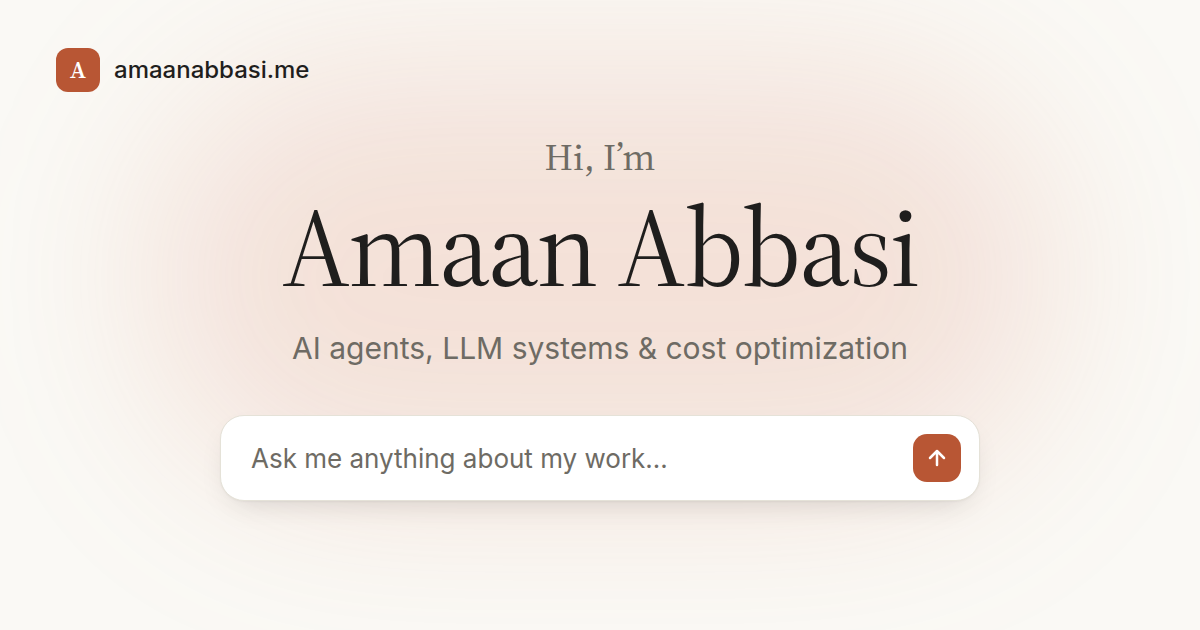
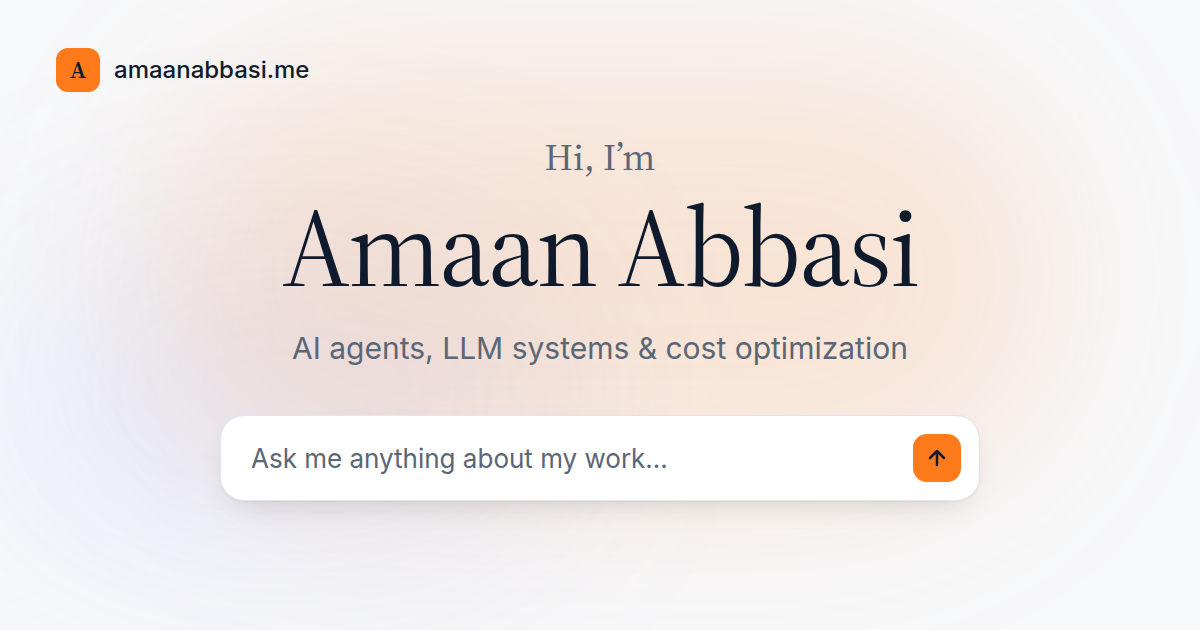
style: 💄 switch to a tangerine and navy palette
Move away from the warm ivory and clay-orange look: cool off-white
backgrounds, navy ink, a brighter tangerine accent with navy text on it,
a deep navy dark mode, and a faint cool counter-glow in the hero. Icons,
browser theme color and the social preview image follow the new palette.

Claude-Session: https://claude.ai/code/session_01HtKFD6V1UwgWJRrzum5mvK

Changed region(s): [[0.74, 0.6635, 0.8017, 0.7841], [0.0308, 0.0603, 0.0925, 0.1508]]

diff --git a/app/globals.css b/app/globals.css
@@ -2,31 +2,35 @@
 @tailwind components;
 @tailwind utilities;
 
-/* Palette: warm ivory + terracotta. Values are RGB channels so Tailwind can apply alpha. */
+/* Palette: tangerine + navy on cool neutrals. Values are RGB channels so Tailwind can apply alpha. */
 @layer base {
   :root {
-    --bg: 250 249 245;
+    --bg: 247 248 250;
     --surface: 255 255 255;
-    --surface-2: 240 238 230;
-    --line: 229 226 216;
-    --ink: 31 30 29;
-    --muted: 110 107 100;
-    --accent: 184 86 52; /* button fill, 4.7:1 with white text */
-    --accent-text: 184 86 52; /* links on bg */
-    --accent-bright: 217 119 87; /* decoration only */
+    --surface-2: 238 241 245;
+    --line: 225 229 236;
+    --ink: 15 27 45; /* navy ink */
+    --muted: 91 102 118;
+    --accent: 255 122 26; /* tangerine fill */
+    --accent-ink: 15 27 45; /* text/icons on the accent fill, 6.6:1 */
+    --accent-text: 194 65 12; /* orange text on bg, 4.9:1 */
+    --accent-bright: 255 122 26; /* decoration only */
+    --glow-cool: 99 125 255;
     color-scheme: light;
   }
 
   .dark {
-    --bg: 38 38 36;
-    --surface: 48 48 46;
-    --surface-2: 58 58 55;
-    --line: 70 69 64;
-    --ink: 240 238 230;
-    --muted: 166 163 154;
-    --accent: 184 86 52;
-    --accent-text: 217 119 87;
-    --accent-bright: 217 119 87;
+    --bg: 11 17 32;
+    --surface: 19 26 41;
+    --surface-2: 28 36 54;
+    --line: 40 50 71;
+    --ink: 232 236 243;
+    --muted: 149 160 179;
+    --accent: 255 122 26;
+    --accent-ink: 11 17 32;
+    --accent-text: 255 154 77;
+    --accent-bright: 255 138 51;
+    --glow-cool: 99 125 255;
     color-scheme: dark;
   }
 

diff --git a/components/sections.tsx b/components/sections.tsx
@@ -175,7 +175,7 @@ export function Contact() {
           <div className="mt-9 flex flex-wrap justify-center gap-3">
             <a
               href={`mailto:${profile.email}`}
-              className="bg-accent inline-flex items-center gap-2 rounded-xl px-4 py-2.5 text-[15px] text-white font-medium transition hover:brightness-110"
+              className="bg-accent text-accent-ink inline-flex items-center gap-2 rounded-xl px-4 py-2.5 text-[15px] font-medium transition hover:brightness-110"
             >
               <FiMail className="size-4" aria-hidden />
               {profile.email}
@@ -223,7 +223,7 @@ export function Footer() {
                 href={href}
                 aria-label={label}
                 {...(href.startsWith('http') ? { target: '_blank', rel: 'noopener noreferrer' } : {})}
-                className="size-9 hover:bg-surface-2 hover:text-ink grid place-items-center rounded-lg transition-colors"
+                className="hover:text-ink size-9 hover:bg-surface-2 grid place-items-center rounded-lg transition-colors"
               >
                 <Icon className="size-[18px]" aria-hidden />
               </a>

diff --git a/components/chat/ChatHero.tsx b/components/chat/ChatHero.tsx
@@ -100,7 +100,10 @@ export default function ChatHero() {
     <section id="top" className="relative isolate">
       <div aria-hidden className="pointer-events-none absolute inset-x-0 top-0 h-[90vh] overflow-hidden -z-10">
         <div className="absolute left-1/2 top-[12%] -translate-x-1/2">
-          <div className="bg-accent-bright/[0.16] animate-drift dark:bg-accent-bright/[0.09] h-[380px] w-[min(720px,90vw)] rounded-full blur-[90px]" />
+          <div className="bg-accent-bright/[0.14] animate-drift dark:bg-accent-bright/[0.10] h-[380px] w-[min(720px,90vw)] rounded-full blur-[90px]" />
+        </div>
+        <div className="absolute left-[18%] top-[34%]">
+          <div className="animate-drift bg-glow-cool/[0.10] dark:bg-glow-cool/[0.14] [animation-delay:-9s] h-[300px] w-[min(520px,70vw)] rounded-full blur-[100px]" />
         </div>
       </div>
 

diff --git a/components/chat/Composer.tsx b/components/chat/Composer.tsx
@@ -193,7 +193,7 @@ export default function Composer({
             onClick={busy ? onStop : submit}
             disabled={!busy && !canSend}
             aria-label={busy ? 'Stop answer' : 'Send question'}
-            className="size-9 bg-accent disabled:bg-surface-2 disabled:text-muted grid place-items-center rounded-xl text-white transition-all active:scale-95 disabled:cursor-default hover:brightness-110 disabled:active:scale-100 disabled:hover:brightness-100"
+            className="size-9 bg-accent text-accent-ink disabled:bg-surface-2 disabled:text-muted grid place-items-center rounded-xl transition-all active:scale-95 disabled:cursor-default hover:brightness-110 disabled:active:scale-100 disabled:hover:brightness-100"
           >
             {busy
               ? <FiSquare className="size-3.5 fill-current" aria-hidden />

diff --git a/components/chat/Messages.tsx b/components/chat/Messages.tsx
@@ -96,7 +96,7 @@ export function AssistantMessage({ answer, animate, stopSignal, onDone }: Assist
     >
       <span
         aria-hidden
-        className="size-7 bg-accent grid mt-0.5 shrink-0 place-items-center rounded-full text-sm text-white font-semibold font-serif"
+        className="size-7 bg-accent text-accent-ink grid mt-0.5 shrink-0 place-items-center rounded-full text-sm font-semibold font-serif"
       >
         {profile.firstName[0]}
       </span>

diff --git a/tailwind.config.js b/tailwind.config.js
@@ -20,8 +20,10 @@ export default {
         'ink': token('--ink'),
         'muted': token('--muted'),
         'accent': token('--accent'),
+        'accent-ink': token('--accent-ink'),
         'accent-text': token('--accent-text'),
         'accent-bright': token('--accent-bright'),
+        'glow-cool': token('--glow-cool'),
       },
       fontFamily: {
         sans: ['var(--font-sans)', 'ui-sans-serif', 'system-ui', 'sans-serif'],

diff --git a/components/Nav.tsx b/components/Nav.tsx
@@ -11,7 +11,7 @@ const links = [
 
 export function Monogram() {
   return (
-    <span aria-hidden className="size-7 bg-accent grid place-items-center rounded-lg text-[15px] text-white font-semibold font-serif">
+    <span aria-hidden className="bg-accent text-accent-ink size-7 grid place-items-center rounded-lg text-[15px] font-semibold font-serif">
       {profile.firstName[0]}
     </span>
   )

diff --git a/app/layout.tsx b/app/layout.tsx
@@ -49,8 +49,8 @@ export const metadata: Metadata = {
 
 export const viewport: Viewport = {
   themeColor: [
-    { media: '(prefers-color-scheme: light)', color: '#FAF9F5' },
-    { media: '(prefers-color-scheme: dark)', color: '#262624' },
+    { media: '(prefers-color-scheme: light)', color: '#F7F8FA' },
+    { media: '(prefers-color-scheme: dark)', color: '#0B1120' },
   ],
 }
 
